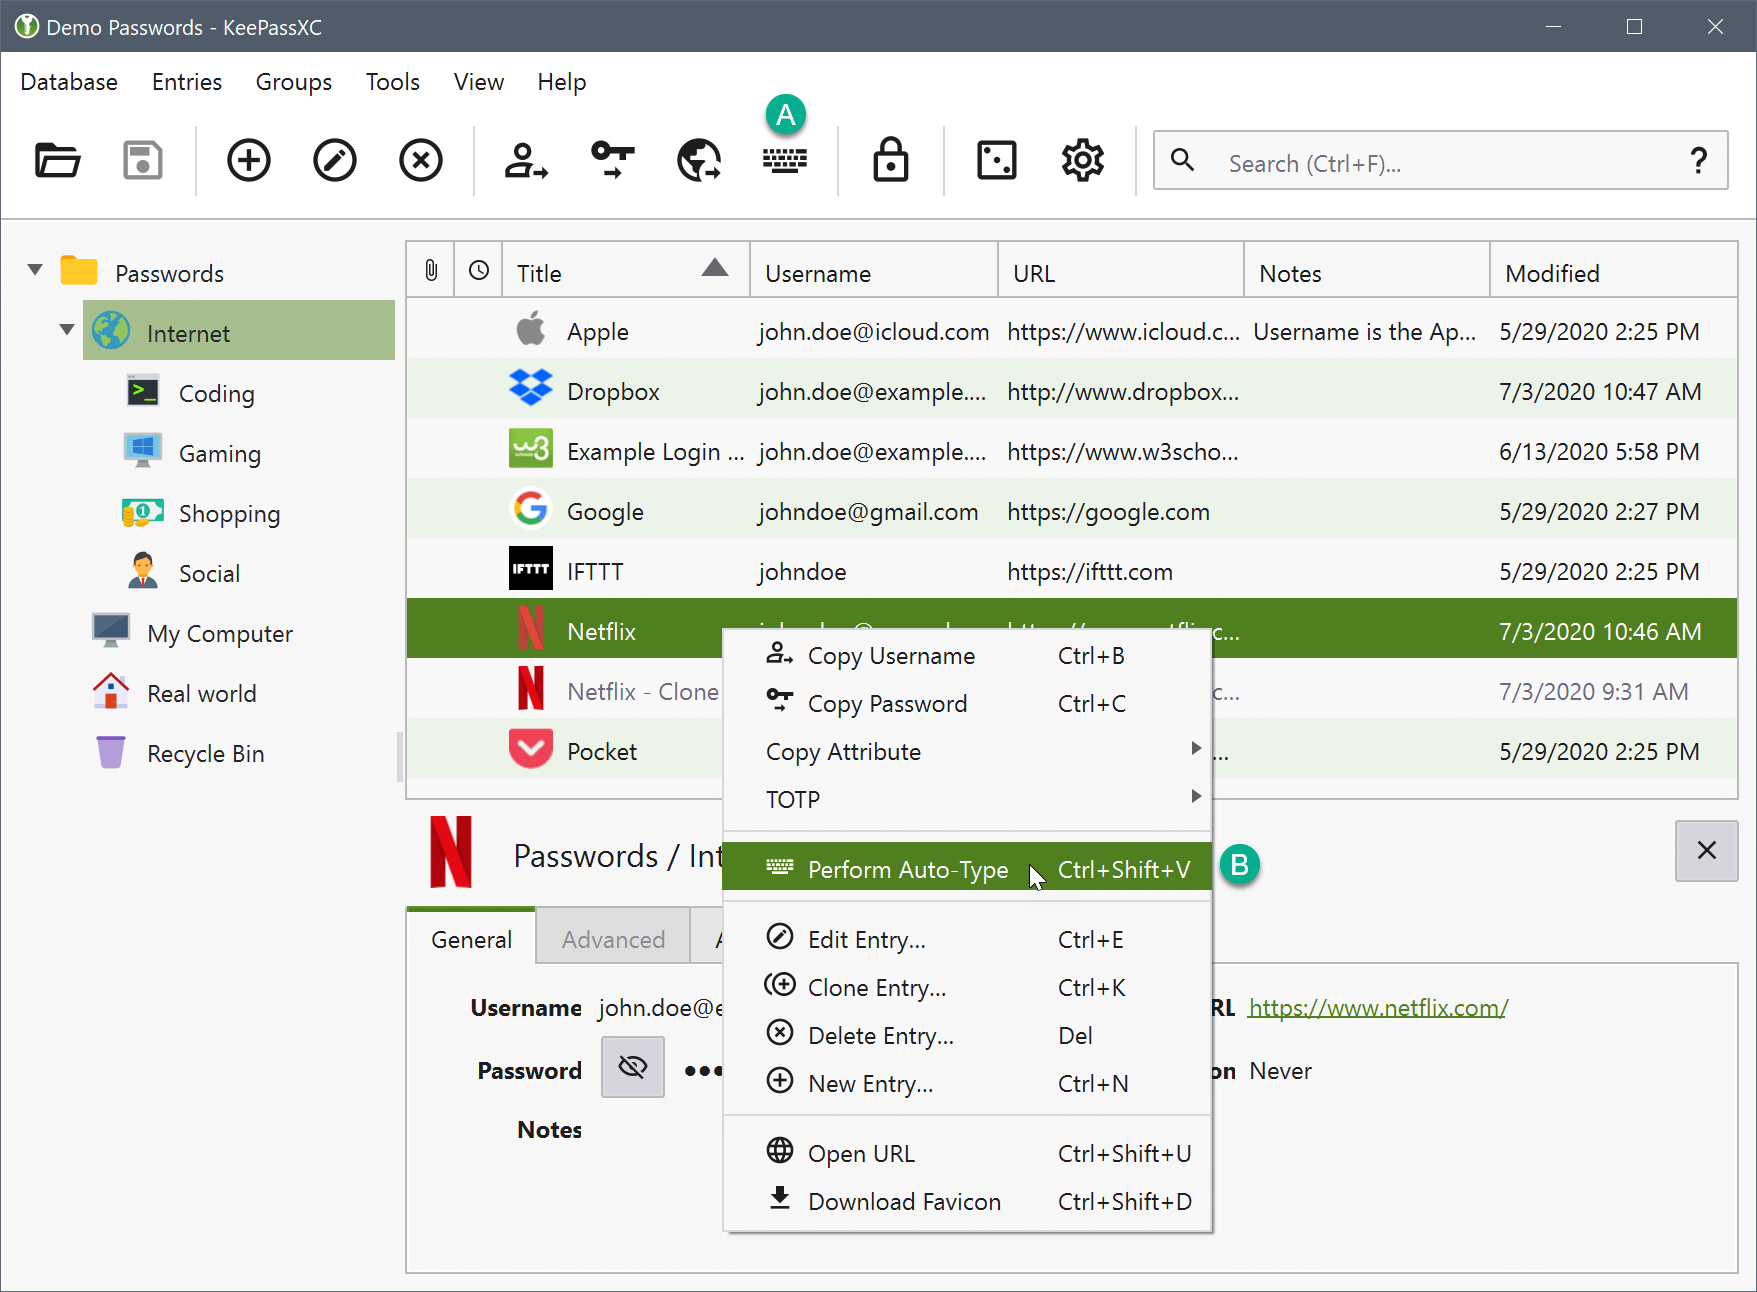
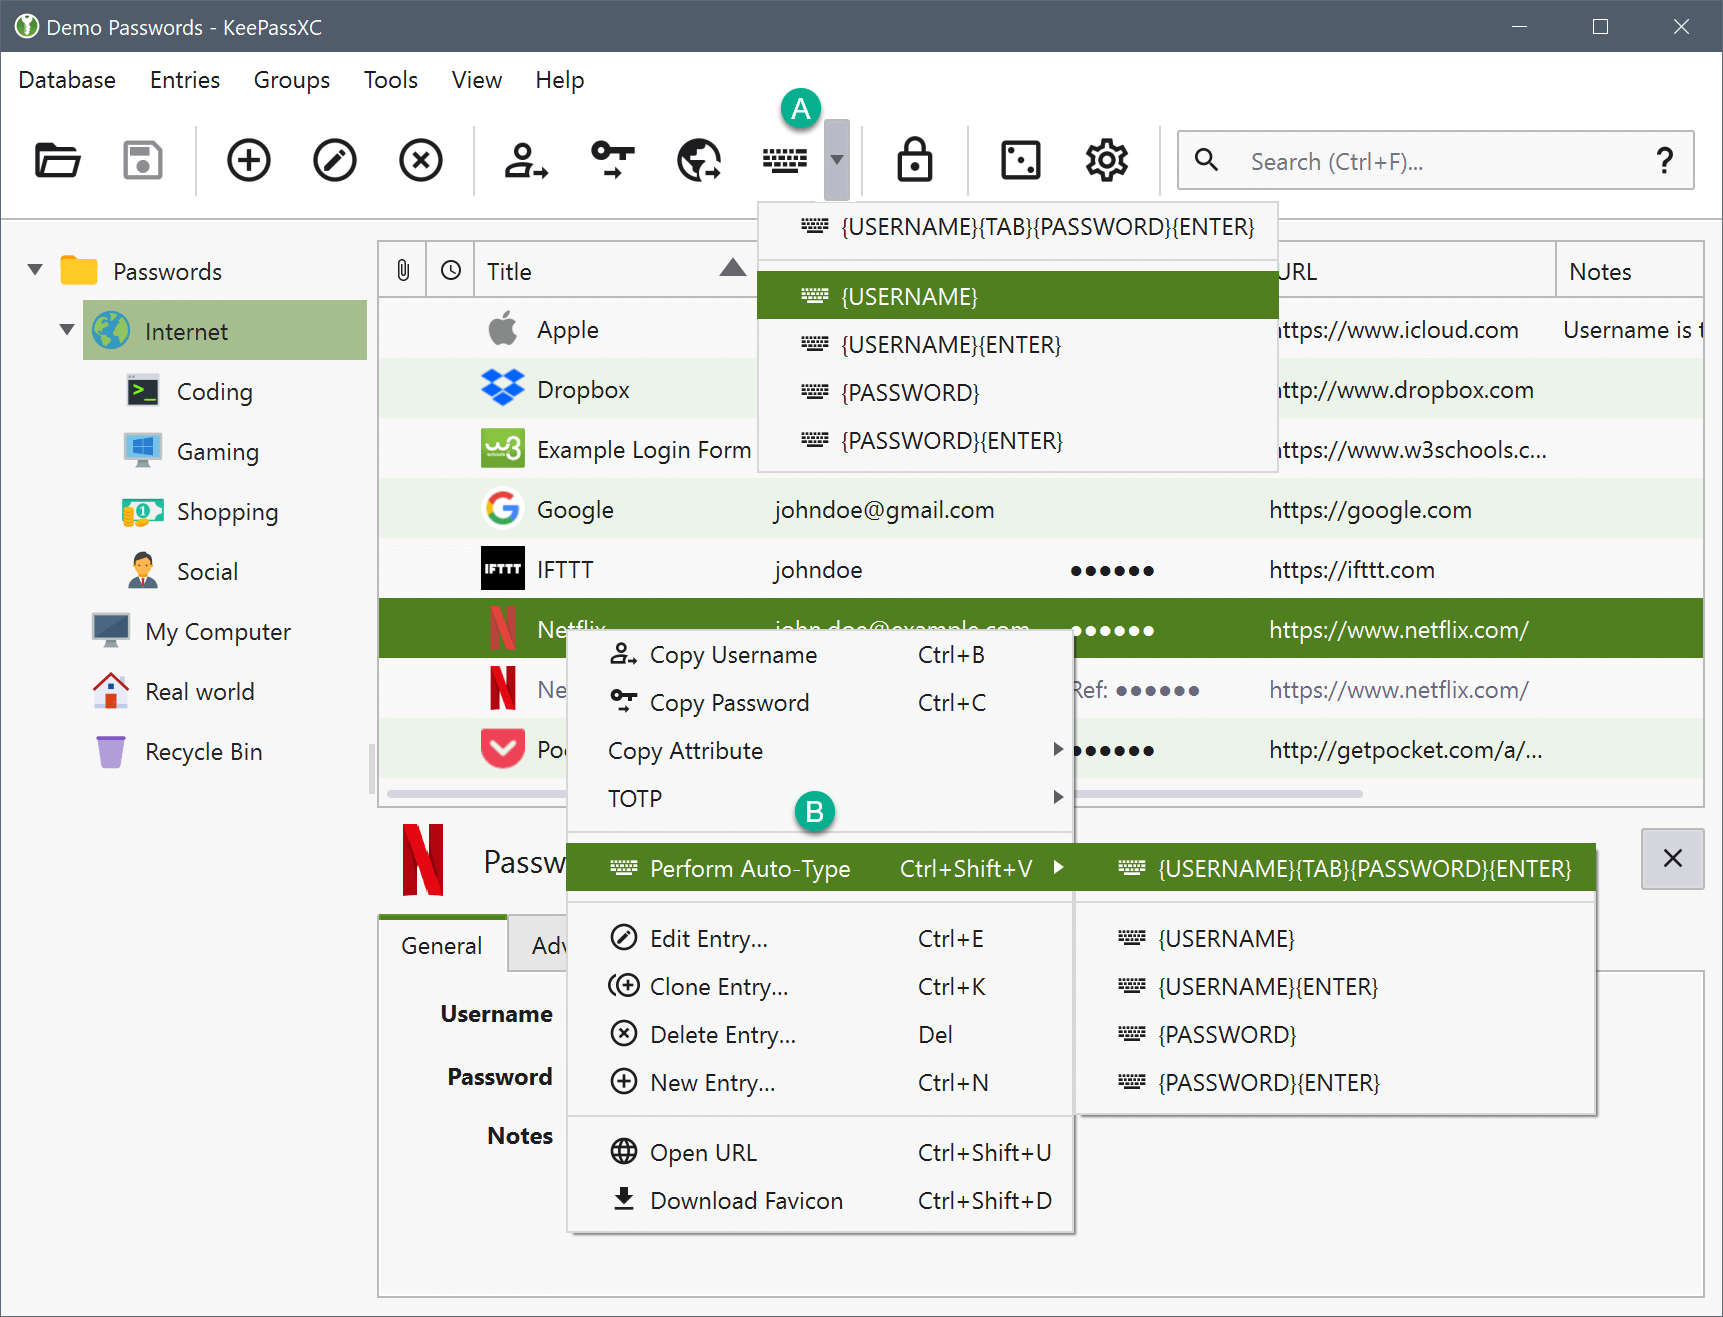
Cleanup entry level Auto-Type menu
* Show the sequence that will be typed when performing the default action
* Combine default sequence action with Username / Password options
* Fix #4939 - confirm prior to performing entry level auto-type if "Always Ask Before Auto-Type" is enabled

diff --git a/src/gui/MainWindow.cpp b/src/gui/MainWindow.cpp
@@ -25,6 +25,7 @@
 #include <QMimeData>
 #include <QShortcut>
 #include <QTimer>
+#include <QToolButton>
 #include <QWindow>
 
 #include "config-keepassx.h"
@@ -128,7 +129,6 @@ MainWindow::MainWindow()
     m_entryContextMenu->addAction(m_ui->menuEntryTotp->menuAction());
     m_entryContextMenu->addSeparator();
     m_entryContextMenu->addAction(m_ui->actionEntryAutoType);
-    m_entryContextMenu->addAction(m_ui->menuEntryAutoTypeWithSequence->menuAction());
     m_entryContextMenu->addSeparator();
     m_entryContextMenu->addAction(m_ui->actionEntryEdit);
     m_entryContextMenu->addAction(m_ui->actionEntryClone);
@@ -143,6 +143,20 @@ MainWindow::MainWindow()
 
     m_entryNewContextMenu = new QMenu(this);
     m_entryNewContextMenu->addAction(m_ui->actionEntryNew);
+
+    // Build Entry Level Auto-Type menu
+    auto autotypeMenu = new QMenu({}, this);
+    autotypeMenu->addAction(m_ui->actionEntryAutoTypeSequence);
+    autotypeMenu->addSeparator();
+    autotypeMenu->addAction(m_ui->actionEntryAutoTypeUsername);
+    autotypeMenu->addAction(m_ui->actionEntryAutoTypeUsernameEnter);
+    autotypeMenu->addAction(m_ui->actionEntryAutoTypePassword);
+    autotypeMenu->addAction(m_ui->actionEntryAutoTypePasswordEnter);
+    m_ui->actionEntryAutoType->setMenu(autotypeMenu);
+    auto autoTypeButton = qobject_cast<QToolButton*>(m_ui->toolBar->widgetForAction(m_ui->actionEntryAutoType));
+    if (autoTypeButton) {
+        autoTypeButton->setPopupMode(QToolButton::MenuButtonPopup);
+    }
 
     restoreGeometry(config()->get(Config::GUI_MainWindowGeometry).toByteArray());
     restoreState(config()->get(Config::GUI_MainWindowState).toByteArray());
@@ -223,12 +237,7 @@ MainWindow::MainWindow()
     m_ui->toolbarSeparator->setVisible(false);
     m_showToolbarSeparator = config()->get(Config::GUI_ApplicationTheme).toString() != "classic";
 
-    bool isAutoTypeAvailable = autoType()->isAvailable();
-    m_ui->actionEntryAutoType->setVisible(isAutoTypeAvailable);
-    m_ui->actionEntryAutoTypeUsername->setVisible(isAutoTypeAvailable);
-    m_ui->actionEntryAutoTypeUsernameEnter->setVisible(isAutoTypeAvailable);
-    m_ui->actionEntryAutoTypePassword->setVisible(isAutoTypeAvailable);
-    m_ui->actionEntryAutoTypePasswordEnter->setVisible(isAutoTypeAvailable);
+    m_ui->actionEntryAutoType->setVisible(autoType()->isAvailable());
 
     m_inactivityTimer = new InactivityTimer(this);
     connect(m_inactivityTimer, SIGNAL(inactivityDetected()), this, SLOT(lockDatabasesAfterInactivity()));
@@ -257,7 +266,7 @@ MainWindow::MainWindow()
     m_ui->actionEntryMoveDown->setShortcut(Qt::CTRL + Qt::ALT + Qt::Key_Down);
     m_ui->actionEntryCopyUsername->setShortcut(Qt::CTRL + Qt::Key_B);
     m_ui->actionEntryCopyPassword->setShortcut(Qt::CTRL + Qt::Key_C);
-    m_ui->actionEntryAutoType->setShortcut(Qt::CTRL + Qt::SHIFT + Qt::Key_V);
+    m_ui->actionEntryAutoTypeSequence->setShortcut(Qt::CTRL + Qt::SHIFT + Qt::Key_V);
     m_ui->actionEntryOpenUrl->setShortcut(Qt::CTRL + Qt::SHIFT + Qt::Key_U);
     m_ui->actionEntryCopyURL->setShortcut(Qt::CTRL + Qt::Key_U);
 
@@ -284,7 +293,7 @@ MainWindow::MainWindow()
     m_ui->actionEntryMoveDown->setShortcutVisibleInContextMenu(true);
     m_ui->actionEntryCopyUsername->setShortcutVisibleInContextMenu(true);
     m_ui->actionEntryCopyPassword->setShortcutVisibleInContextMenu(true);
-    m_ui->actionEntryAutoType->setShortcutVisibleInContextMenu(true);
+    m_ui->actionEntryAutoTypeSequence->setShortcutVisibleInContextMenu(true);
     m_ui->actionEntryOpenUrl->setShortcutVisibleInContextMenu(true);
     m_ui->actionEntryCopyURL->setShortcutVisibleInContextMenu(true);
     m_ui->actionEntryAddToAgent->setShortcutVisibleInContextMenu(true);
@@ -360,7 +369,7 @@ MainWindow::MainWindow()
     m_ui->actionEntryEdit->setIcon(icons()->icon("entry-edit"));
     m_ui->actionEntryDelete->setIcon(icons()->icon("entry-delete"));
     m_ui->actionEntryAutoType->setIcon(icons()->icon("auto-type"));
-    m_ui->menuEntryAutoTypeWithSequence->setIcon(icons()->icon("auto-type"));
+    m_ui->actionEntryAutoTypeSequence->setIcon(icons()->icon("auto-type"));
     m_ui->actionEntryAutoTypeUsername->setIcon(icons()->icon("auto-type"));
     m_ui->actionEntryAutoTypeUsernameEnter->setIcon(icons()->icon("auto-type"));
     m_ui->actionEntryAutoTypePassword->setIcon(icons()->icon("auto-type"));
@@ -458,6 +467,7 @@ MainWindow::MainWindow()
     m_actionMultiplexer.connect(m_ui->actionEntryCopyURL, SIGNAL(triggered()), SLOT(copyURL()));
     m_actionMultiplexer.connect(m_ui->actionEntryCopyNotes, SIGNAL(triggered()), SLOT(copyNotes()));
     m_actionMultiplexer.connect(m_ui->actionEntryAutoType, SIGNAL(triggered()), SLOT(performAutoType()));
+    m_actionMultiplexer.connect(m_ui->actionEntryAutoTypeSequence, SIGNAL(triggered()), SLOT(performAutoType()));
     m_actionMultiplexer.connect(
         m_ui->actionEntryAutoTypeUsername, SIGNAL(triggered()), SLOT(performAutoTypeUsername()));
     m_actionMultiplexer.connect(
@@ -782,7 +792,11 @@ void MainWindow::setMenuActionState(DatabaseWidget::Mode mode)
             m_ui->menuEntryCopyAttribute->setEnabled(singleEntrySelected);
             m_ui->menuEntryTotp->setEnabled(singleEntrySelected);
             m_ui->actionEntryAutoType->setEnabled(singleEntrySelected);
-            m_ui->menuEntryAutoTypeWithSequence->setEnabled(singleEntrySelected);
+            m_ui->actionEntryAutoType->menu()->setEnabled(singleEntrySelected);
+            m_ui->actionEntryAutoTypeSequence->setText(
+                singleEntrySelected ? dbWidget->currentSelectedEntry()->effectiveAutoTypeSequence()
+                                    : Group::RootAutoTypeSequence);
+            m_ui->actionEntryAutoTypeSequence->setEnabled(singleEntrySelected);
             m_ui->actionEntryAutoTypeUsername->setEnabled(singleEntrySelected && dbWidget->currentEntryHasUsername());
             m_ui->actionEntryAutoTypeUsernameEnter->setEnabled(singleEntrySelected
                                                                && dbWidget->currentEntryHasUsername());
@@ -841,7 +855,6 @@ void MainWindow::setMenuActionState(DatabaseWidget::Mode mode)
                                                                m_ui->actionEntryCopyURL,
                                                                m_ui->actionEntryOpenUrl,
                                                                m_ui->actionEntryAutoType,
-                                                               m_ui->menuEntryAutoTypeWithSequence->menuAction(),
                                                                m_ui->actionEntryDownloadIcon,
                                                                m_ui->actionEntryCopyNotes,
                                                                m_ui->actionEntryCopyTitle,

diff --git a/src/gui/DatabaseWidget.cpp b/src/gui/DatabaseWidget.cpp
@@ -759,44 +759,44 @@ void DatabaseWidget::removeFromAgent()
 }
 #endif
 
-void DatabaseWidget::performAutoType()
+void DatabaseWidget::performAutoType(const QString& sequence)
 {
     auto currentEntry = currentSelectedEntry();
     if (currentEntry) {
-        autoType()->performAutoType(currentEntry, window());
+        // TODO: Include name of previously active window in confirmation question
+        if (config()->get(Config::Security_AutoTypeAsk).toBool()
+            && MessageBox::question(
+                   this, tr("Confirm Auto-Type"), tr("Perform Auto-Type into the previously active window?"))
+                   != MessageBox::Yes) {
+            return;
+        }
+
+        if (sequence.isEmpty()) {
+            autoType()->performAutoType(currentEntry, window());
+        } else {
+            autoType()->performAutoTypeWithSequence(currentEntry, sequence, window());
+        }
     }
 }
 
 void DatabaseWidget::performAutoTypeUsername()
 {
-    auto currentEntry = currentSelectedEntry();
-    if (currentEntry) {
-        autoType()->performAutoTypeWithSequence(currentEntry, QStringLiteral("{USERNAME}"), window());
-    }
+    performAutoType(QStringLiteral("{USERNAME}"));
 }
 
 void DatabaseWidget::performAutoTypeUsernameEnter()
 {
-    auto currentEntry = currentSelectedEntry();
-    if (currentEntry) {
-        autoType()->performAutoTypeWithSequence(currentEntry, QStringLiteral("{USERNAME}{ENTER}"), window());
-    }
+    performAutoType(QStringLiteral("{USERNAME}{ENTER}"));
 }
 
 void DatabaseWidget::performAutoTypePassword()
 {
-    auto currentEntry = currentSelectedEntry();
-    if (currentEntry) {
-        autoType()->performAutoTypeWithSequence(currentEntry, QStringLiteral("{PASSWORD}"), window());
-    }
+    performAutoType(QStringLiteral("{PASSWORD}"));
 }
 
 void DatabaseWidget::performAutoTypePasswordEnter()
 {
-    auto currentEntry = currentSelectedEntry();
-    if (currentEntry) {
-        autoType()->performAutoTypeWithSequence(currentEntry, QStringLiteral("{PASSWORD}{ENTER}"), window());
-    }
+    performAutoType(QStringLiteral("{PASSWORD}{ENTER}"));
 }
 
 void DatabaseWidget::openUrl()

diff --git a/src/gui/DatabaseWidget.h b/src/gui/DatabaseWidget.h
@@ -105,6 +105,7 @@ public:
     QStringList customEntryAttributes() const;
     bool isEditWidgetModified() const;
     void clearAllWidgets();
+    Entry* currentSelectedEntry();
     bool currentEntryHasTitle();
     bool currentEntryHasUsername();
     bool currentEntryHasPassword();
@@ -181,7 +182,7 @@ public slots:
     void addToAgent();
     void removeFromAgent();
 #endif
-    void performAutoType();
+    void performAutoType(const QString& sequence = {});
     void performAutoTypeUsername();
     void performAutoTypeUsernameEnter();
     void performAutoTypePassword();
@@ -257,7 +258,6 @@ private:
     bool confirmDeleteEntries(QList<Entry*> entries, bool permanent);
     void performIconDownloads(const QList<Entry*>& entries, bool force = false);
     bool performSave(QString& errorMessage, const QString& fileName = {});
-    Entry* currentSelectedEntry();
 
     QSharedPointer<Database> m_db;
 
